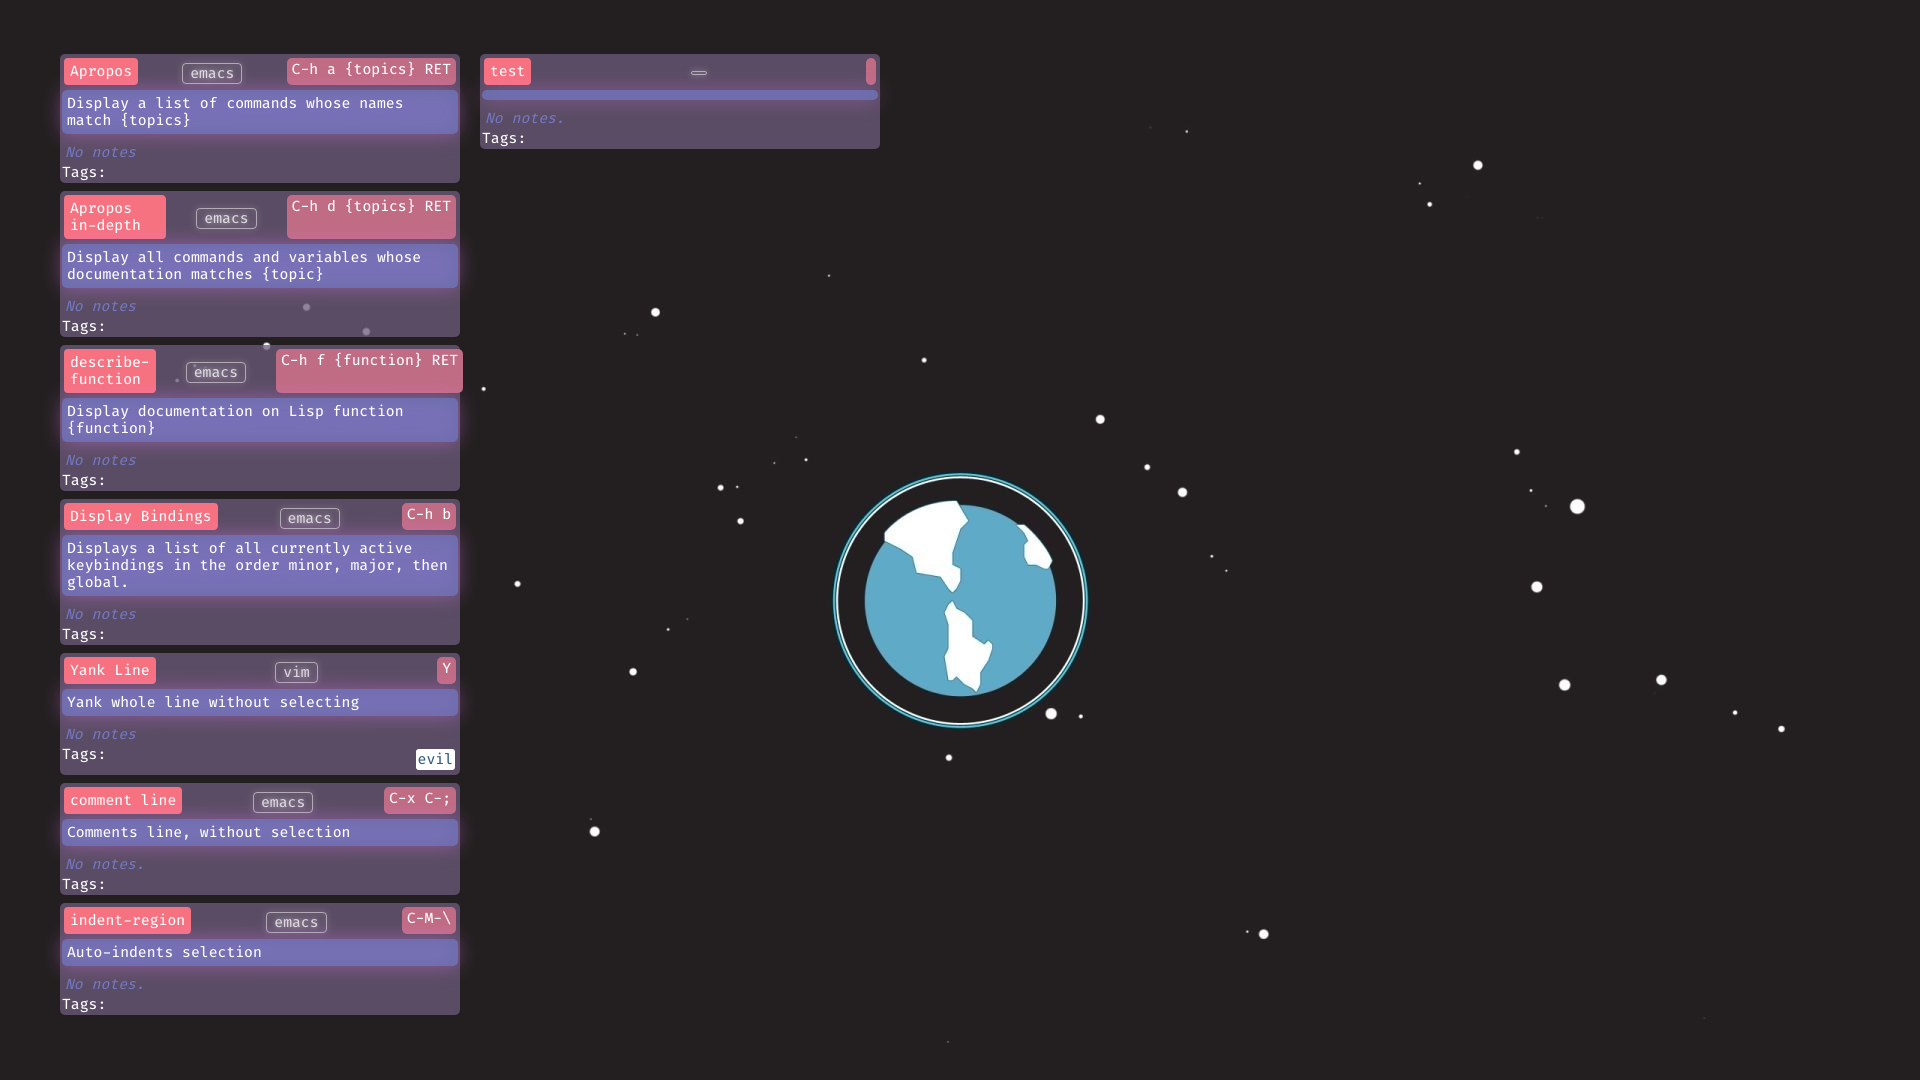
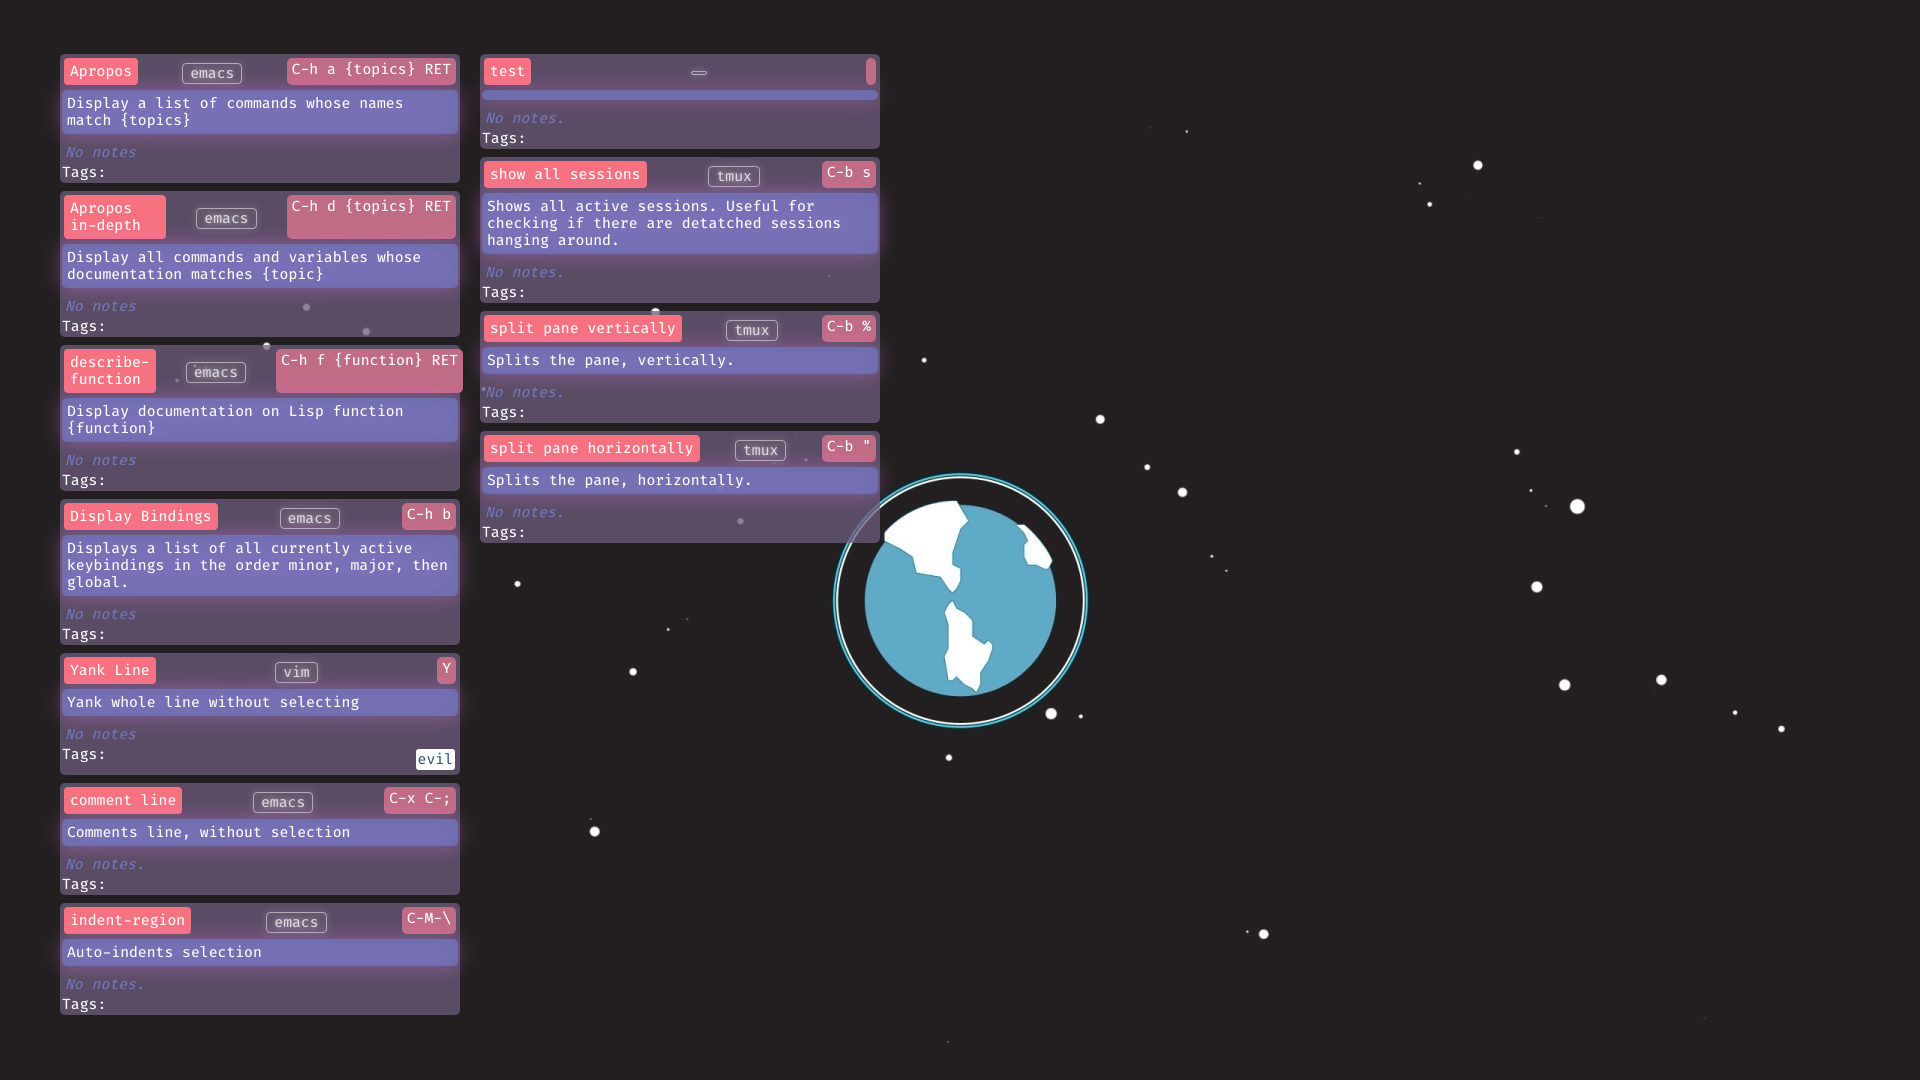
more TODOs

Changed region(s): [[0.25, 0.1222, 0.4688, 0.5194]]

diff --git a/rendering/cs_final.html b/rendering/cs_final.html
@@ -171,6 +171,66 @@
 		</ul>
 	    </div>
 	    
+	    <div class="cheet-container">
+		<div class="cheet-header-container">
+		    <p class="cheet-title">show all sessions</p>
+		    <p class="cheet-context">tmux</p>
+		    <kbd class="cheet-kb">C-b s</kbd>
+		</div>
+		<div class="cheet-desc-container">
+		    <p class="cheet-desc">Shows all active sessions. Useful for checking if there are detatched sessions hanging around.</p>
+		</div>
+		<p class="cheet-note">
+		    
+		    No notes.
+		    
+		</p>
+		<ul class="cheet-tag-list">
+		    <lh class="cheet-tag-list-header">Tags:</lh>
+		    
+		</ul>
+	    </div>
+	    
+	    <div class="cheet-container">
+		<div class="cheet-header-container">
+		    <p class="cheet-title">split pane vertically</p>
+		    <p class="cheet-context">tmux</p>
+		    <kbd class="cheet-kb">C-b %</kbd>
+		</div>
+		<div class="cheet-desc-container">
+		    <p class="cheet-desc">Splits the pane, vertically.</p>
+		</div>
+		<p class="cheet-note">
+		    
+		    No notes.
+		    
+		</p>
+		<ul class="cheet-tag-list">
+		    <lh class="cheet-tag-list-header">Tags:</lh>
+		    
+		</ul>
+	    </div>
+	    
+	    <div class="cheet-container">
+		<div class="cheet-header-container">
+		    <p class="cheet-title">split pane horizontally</p>
+		    <p class="cheet-context">tmux</p>
+		    <kbd class="cheet-kb">C-b "</kbd>
+		</div>
+		<div class="cheet-desc-container">
+		    <p class="cheet-desc">Splits the pane, horizontally.</p>
+		</div>
+		<p class="cheet-note">
+		    
+		    No notes.
+		    
+		</p>
+		<ul class="cheet-tag-list">
+		    <lh class="cheet-tag-list-header">Tags:</lh>
+		    
+		</ul>
+	    </div>
+	    
 
 	</div>
     </body>

diff --git a/devlog.md b/devlog.md
@@ -21,6 +21,9 @@ inkscape??
 
 rust ((resvg, piet))
 
+# FIXME
+
+Inputting a command with a trailing space crashes.  This is not preferable behavior (encountered when entering fields in 'vi' mode)
 
 # TODO
 
